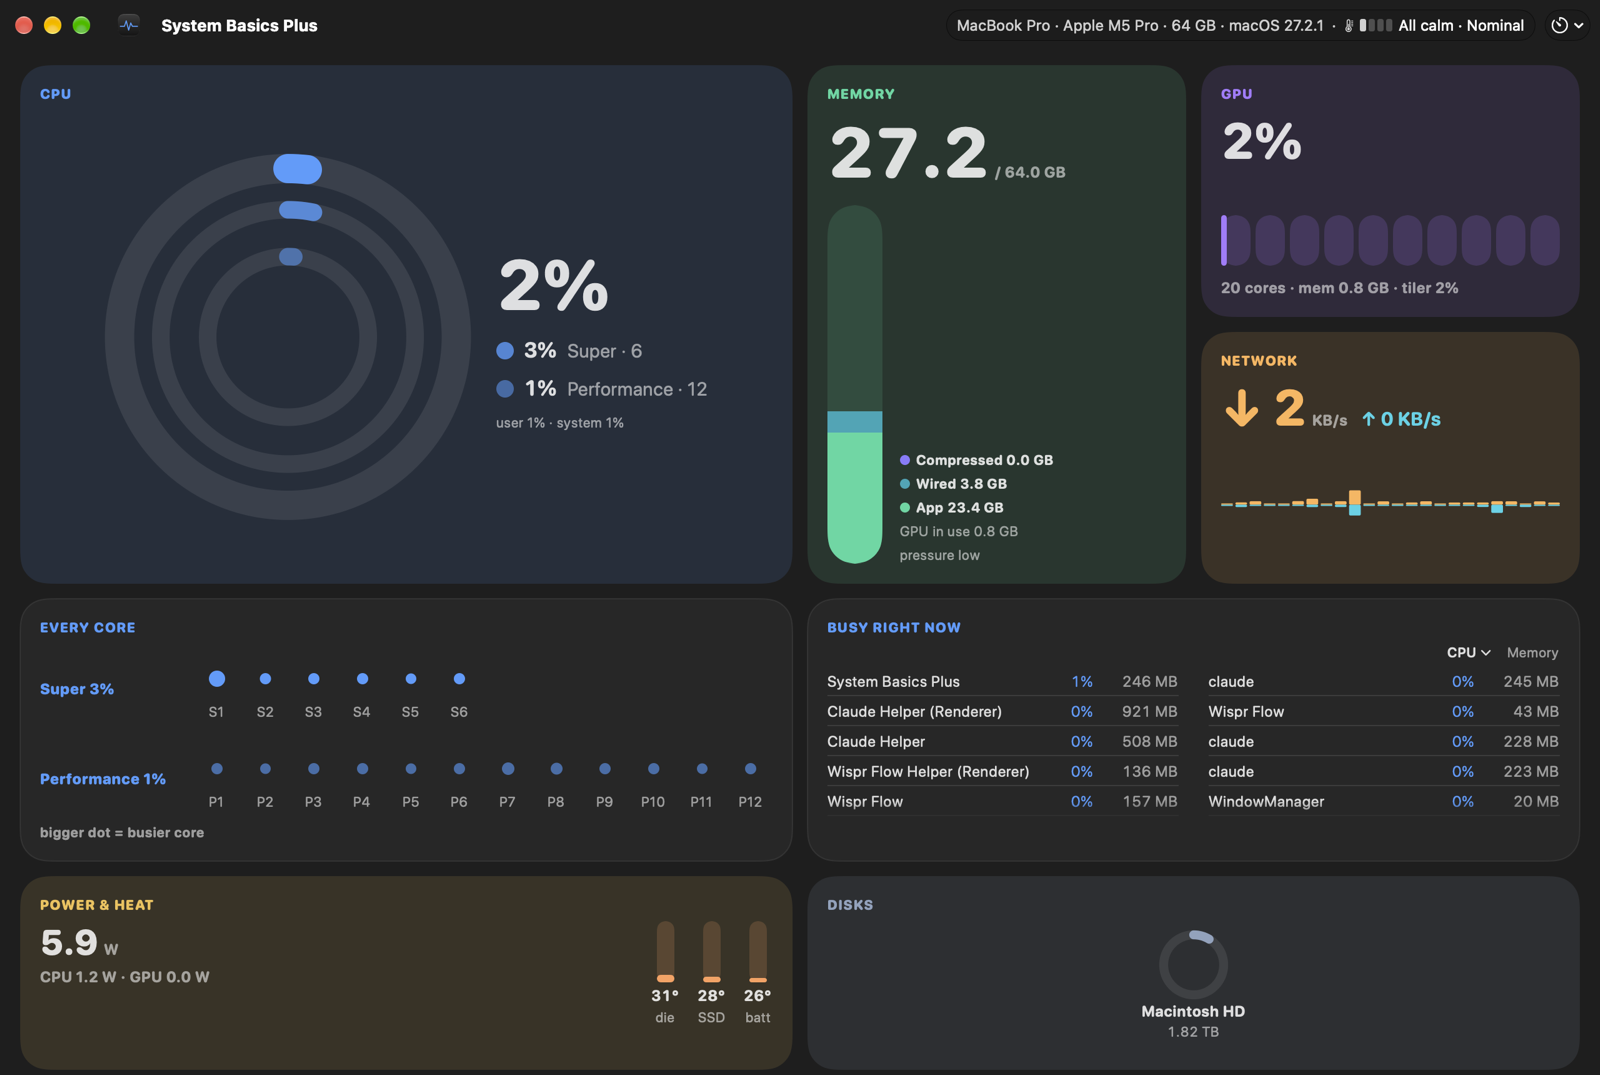
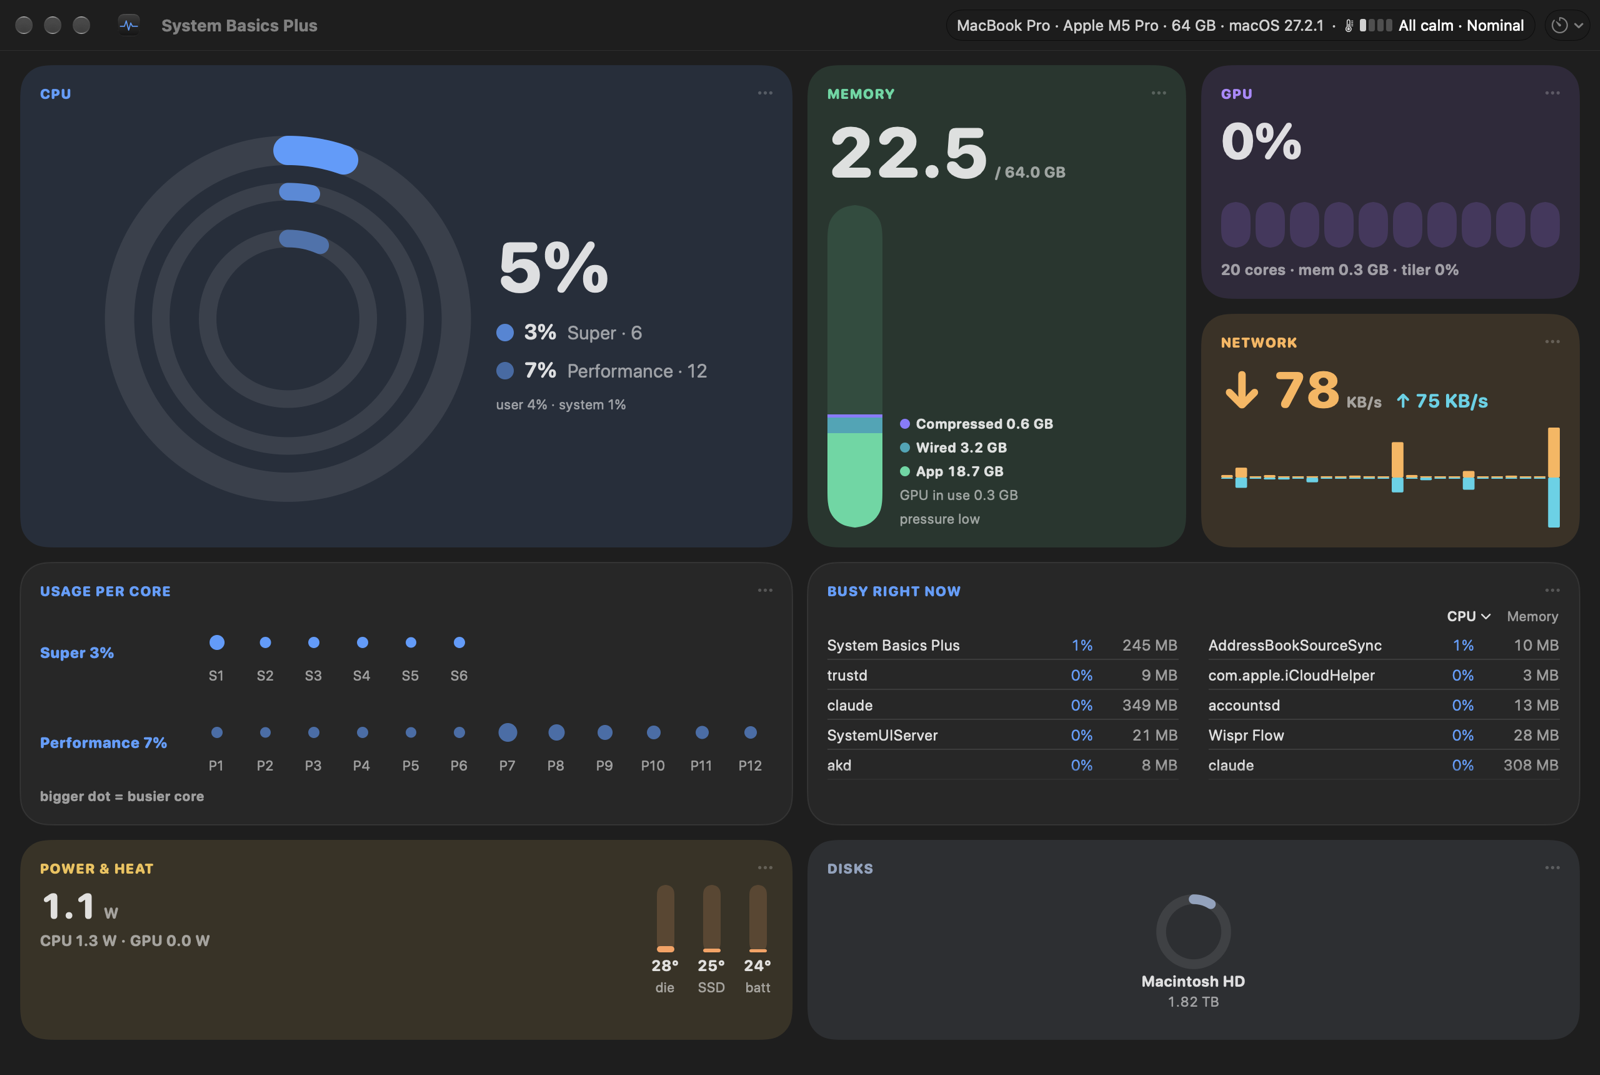
System Basics Plus 0.2.1: seven layouts on the app page, new screenshots

diff --git a/docs/system-basics/index.html b/docs/system-basics/index.html
@@ -19,13 +19,13 @@
 
 <main class="wrap">
   <h1 class="app-title"><img src="img/icon.png" alt="" width="128" height="128">System Basics Plus</h1>
-  <p class="lede">A small, quiet system monitor for the Mac. Nothing fancy. Live readings for CPU, GPU, memory, network, temperature and power, in a window with six layouts to choose from, in the menu bar and on the Dock icon. Nothing else: no accounts, no ads, and nothing leaves your Mac. There are far more comprehensive apps available for tracking system stats. I wanted a simpler version so I made my own.</p>
+  <p class="lede">A small, quiet system monitor for the Mac. Nothing fancy. Live readings for CPU, GPU, memory, network, temperature and power, in a window with seven layouts to choose from, in the menu bar and on the Dock icon. Nothing else: no accounts, no ads, and nothing leaves your Mac. There are far more comprehensive apps available for tracking system stats. I wanted a simpler version so I made my own.</p>
 
   <figure>
-    <img src="img/window.png?v=2" alt="The System Basics Plus window in the Hero &amp; Satellites layout: a large CPU graph with per-core traces, tiles for GPU, memory, network, power and disk, and the top processes below">
-    <figcaption>Hero &amp; Satellites, the default layout: one metric large, the others as tiles. Click a tile to bring it into focus.</figcaption>
+    <img src="img/window.png?v=3" alt="The System Basics Plus window in the Cards layout: a graph card each for CPU, GPU, memory, network, and power and heat, the top processes, disk space, and a small trace for every core">
+    <figcaption>Cards, the layout the app opens with: a graph for everything at once.</figcaption>
   </figure>
-  <p class="dim">New in 0.2: six window layouts, metrics you can switch off everywhere, and the top 20 processes. The app is now named System Basics Plus; your settings carry over.</p>
+  <p class="dim">New in 0.2.1: Cards is back as the layout the app opens with; Bento's tiles can be resized, moved and restyled; temperatures in °C or °F; and ⌘1 to ⌘7 switch layouts.</p>
 
   <h2 id="install">Install</h2>
   <p>Requires macOS 15 (Sequoia) or later.</p>
@@ -47,7 +47,7 @@ brew upgrade --cask system-basics</code></pre>
 
   <h3>The window</h3>
   <ul class="features">
-    <li><strong>Six layouts</strong>: the same readings drawn six ways. Pick one in Settings ▸ General or View ▸ Layout; switching is instant and keeps the history.</li>
+    <li><strong>Seven layouts</strong>: the same readings drawn seven ways. Pick one in Settings ▸ General or View ▸ Layout, or press ⌘1 to ⌘7; switching is instant and keeps the history.</li>
     <li><strong>Your choice of metrics</strong>: CPU, Per-core, GPU, Memory, Network, Thermal, Power, Disk and Top Processes. Switch any of them off in Settings ▸ Metrics and it leaves every layout, the menu bar and the Dock, and stops being measured.</li>
     <li><strong>Fits any size</strong>: every layout reflows from a narrow strip to a full screen and uses the height it is given.</li>
     <li><strong>This Mac</strong>: the model, chip, memory, macOS version and thermal level in the title bar; click it for uptime, startup disk, displays and battery health. Choose the facts in Settings ▸ System Info.</li>
@@ -57,6 +57,10 @@ brew upgrade --cask system-basics</code></pre>
 
   <h3>The layouts</h3>
   <div class="shots layouts">
+    <figure>
+      <img src="img/layout-hero.png" alt="Hero &amp; Satellites: a large CPU graph with per-core traces, and tiles for GPU, memory, network, power and disk beside it">
+      <figcaption><strong>Hero &amp; Satellites</strong>: one metric large, the others as tiles. Click a tile to bring it into focus.</figcaption>
+    </figure>
     <figure>
       <img src="img/layout-strip.png" alt="Instrument Strip: one row per metric, each with a graph on a shared time axis">
       <figcaption><strong>Instrument Strip</strong>: one row per metric on a shared time axis. Hover any graph and one scrubber reads every row at that moment.</figcaption>
@@ -70,15 +74,15 @@ brew upgrade --cask system-basics</code></pre>
       <figcaption><strong>Gauge Cluster</strong>: dials for CPU, GPU, memory and CPU temperature, each with a marker at its recent peak.</figcaption>
     </figure>
     <figure>
-      <img src="img/layout-bento.png" alt="Bento: tinted tiles of different sizes, each metric in its own drawing">
-      <figcaption><strong>Bento</strong>: tinted tiles in different sizes, each metric in its own drawing.</figcaption>
+      <img src="img/layout-bento.png?v=2" alt="Bento: tinted tiles of different sizes, each metric in its own drawing">
+      <figcaption><strong>Bento</strong>: tinted tiles you make your own. Drag the gaps to resize, drag a tile to swap or dock it, and pick a style per tile from its ··· button.</figcaption>
     </figure>
     <figure>
       <img src="img/layout-sourceList.png" alt="Source List: a sidebar of metrics with live values beside one metric shown in depth">
       <figcaption><strong>Source List</strong>: every metric with its live value in a sidebar, and one shown in depth beside it.</figcaption>
     </figure>
     <figure class="settings">
-      <img src="img/settings-layout.png" alt="Settings, General tab: six preview cards, one per layout">
+      <img src="img/settings-layout.png?v=2" alt="Settings, General tab: seven preview cards, one per layout">
       <figcaption>Settings ▸ General: pick a layout from its preview.</figcaption>
     </figure>
   </div>
@@ -112,7 +116,7 @@ brew upgrade --cask system-basics</code></pre>
   <ul class="features">
     <li>Measures only what is on screen, slows down when the window is hidden, and pauses when nothing is showing.</li>
     <li>Refresh every 0.5, 1, 2 or 5 seconds; keep 60 to 600 samples of history.</li>
-    <li>Follows your Mac's light and dark appearance.</li>
+    <li>Follows your Mac's light and dark appearance, and its Region setting for °C or °F (or choose one in Settings ▸ General).</li>
   </ul>
 
   <h2 id="faq">FAQ</h2>

diff --git a/docs/index.html b/docs/index.html
@@ -24,9 +24,9 @@
 
   <div class="apps">
     <a class="card" href="system-basics/">
-      <img src="system-basics/img/window.png?v=2" alt="The System Basics Plus window with a large CPU graph and tiles for GPU, memory, network, power and disk">
+      <img src="system-basics/img/window.png?v=3" alt="The System Basics Plus window: a graph card each for CPU, GPU, memory, network, and power and heat">
       <h3 class="app-title"><img src="system-basics/img/icon.png" alt="" width="56" height="56">System Basics Plus</h3>
-      <p>Live CPU, GPU, memory, network, temperature and power readings in a window with six layouts, the menu bar and the Dock. macOS 15 or later.</p>
+      <p>Live CPU, GPU, memory, network, temperature and power readings in a window with seven layouts, the menu bar and the Dock. macOS 15 or later.</p>
     </a>
   </div>
 </main>

diff --git a/README.md b/README.md
@@ -4,7 +4,7 @@
 
 | App | What it does | Needs |
 | --- | --- | --- |
-| [System Basics Plus](https://tcrowson.github.io/homebrew-tap/system-basics/) | Live system readings in a window with six layouts, the menu bar and the Dock | macOS 15 |
+| [System Basics Plus](https://tcrowson.github.io/homebrew-tap/system-basics/) | Live system readings in a window with seven layouts, the menu bar and the Dock | macOS 15 |
 
 ## Install
 
